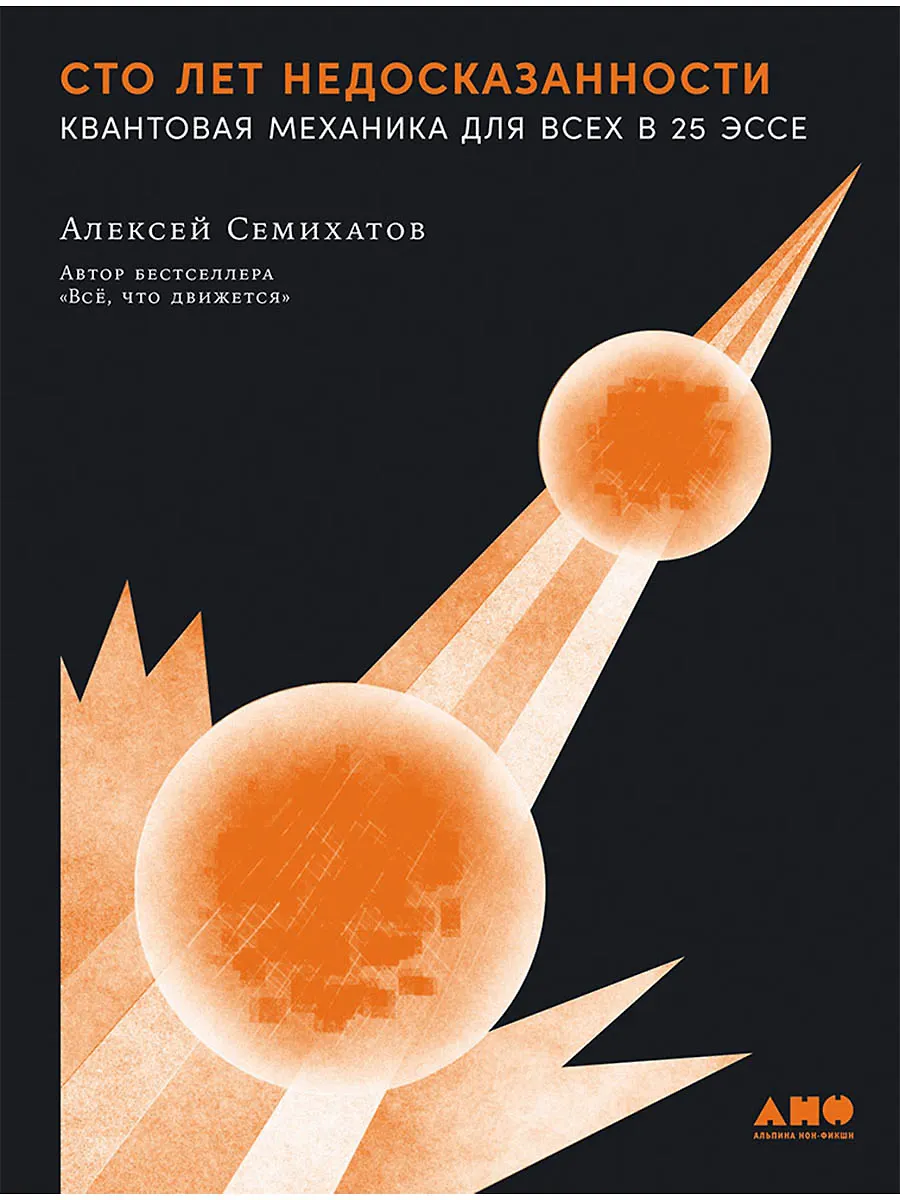
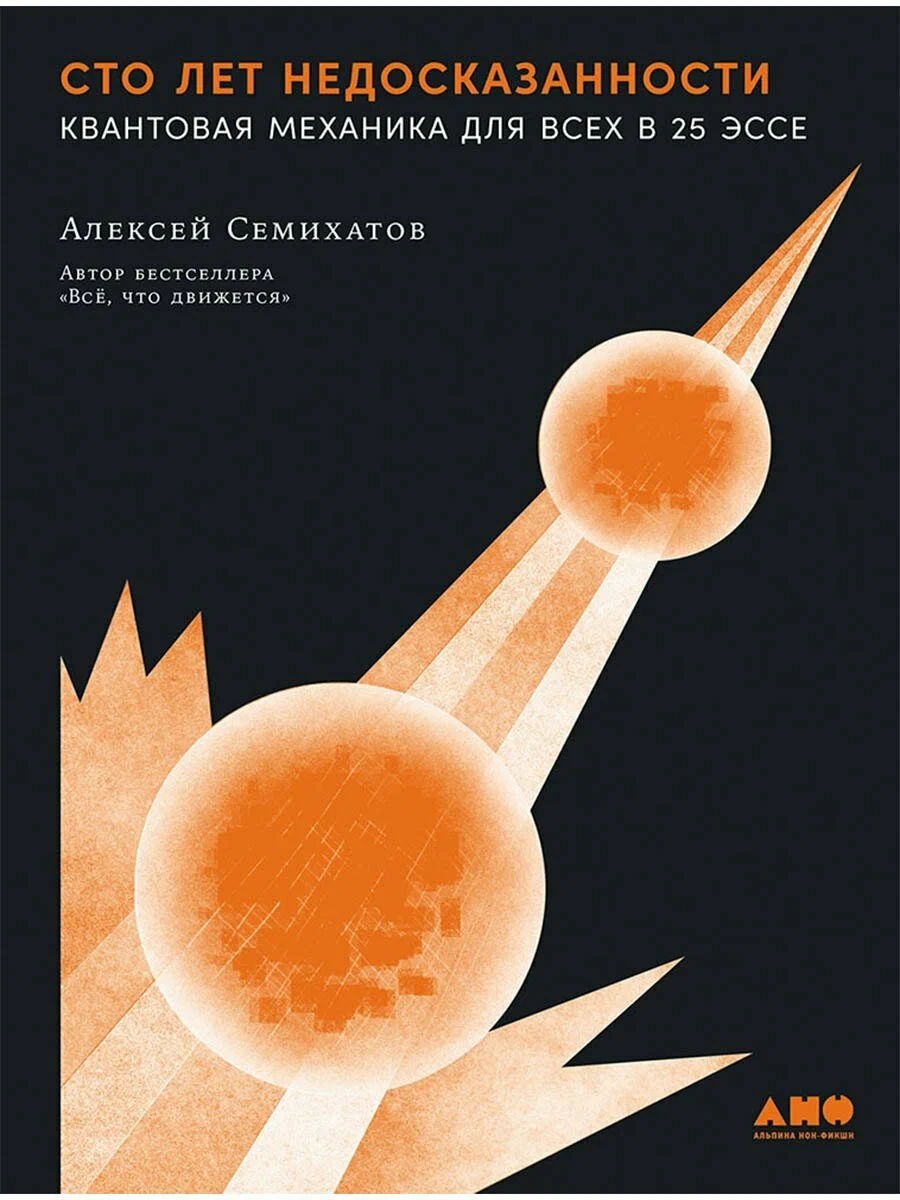
added book page + some reajustments

Changed region(s): [[0.9022, 0.925, 0.9333, 0.9558], [0.84, 0.925, 0.8711, 0.9558], [0.5911, 0.0617, 0.6222, 0.0925]]

diff --git a/css/book.css b/css/book.css
@@ -1,0 +1,156 @@
+ .book-container-content {
+    background-color: #fff;
+    width: 90%;
+    margin: 40px auto;
+    padding: 40px 0;
+ }
+ 
+ .book-page {
+    display: flex;
+    gap: 50px;
+    max-width: 80vw;
+    margin: 40px auto;
+    padding: 0 20px;
+}
+
+/* Covers */
+
+.book-page-cover {
+    flex: 0 0 400px;
+    position: relative; 
+    aspect-ratio: 2 / 3;
+}
+
+.book-page-cover img {
+    position: absolute;
+    width: 100%;
+    height: 100%;
+    object-fit: cover;
+}
+
+/* Book info */
+
+.book-page-info {
+    flex: 1;
+}
+
+.book-page-title {
+    font-family: 'Lato', sans-serif;
+    font-size: 32px;
+    font-weight: 600;
+    color: #000;
+    letter-spacing: 5%;
+    text-transform: uppercase;
+    margin-bottom: 20px;
+}
+
+.book-page-author {
+    font-family: 'Lato', sans-serif;
+    font-size: 24px;
+    color: #56463e;
+    font-weight: 600;
+    letter-spacing: 5%;
+    margin-bottom: 30px;
+}
+
+/* Rating */
+
+.book-page-rating {
+    display: flex;
+    align-items: center;
+    gap: 12px;
+    margin-bottom: 40px;
+    line-height: 1;
+}
+
+.stars-container .star {
+    font-size: 36px;
+    color: #bdb4a3;
+}
+
+.stars-container .star.filled,
+.stars-container .star.half {
+    color: #f5b342;
+}
+
+.rating-value {
+    font-family: 'Lato', sans-serif;
+    font-size: 24px;
+    color: #56463e;
+    font-weight: 600;
+    letter-spacing: 10%;
+}
+
+/* Genres */
+
+.book-page-genres {
+    display: flex;
+    flex-wrap: wrap;
+    gap: 20px;
+    margin-bottom: 210px;
+}
+
+.book-page-genre {
+    font-family: 'Lato', sans-serif;
+    background-color: #f2eeed;
+    color: #000;
+    padding: 4px 24px;
+    border-radius: 200px;
+    font-size: 20px;
+    letter-spacing: 5%;
+}
+
+/* In/Out of stock*/
+
+.book-page-stock-status {
+    font-size: 22px;
+    color: #000;
+    text-transform: uppercase;
+    margin-bottom: 40px;
+}
+
+/* Button */
+
+.book-page-button {
+    width: 50%;
+    margin-top: auto;
+    padding: 12px;
+    border: none;
+    font-size: 24px;
+    font-weight: 600;
+    cursor: pointer;
+    transition: all 0.3s ease;
+    font-family: 'Lato', sans-serif;
+    text-transform: uppercase;
+    letter-spacing: 8%;
+    margin-bottom: 15px;
+}
+
+.book-page-button.in-stock {
+    background-color: #56463e;
+    color: #fff;
+}
+
+.book-page-button.in-stock:hover {
+    background-color: #bdb4a3;
+}
+
+.book-page-button.out-of-stock {
+    background-color: #fff;
+    color: #56463e;
+    border: 2px solid #56463e;
+}
+
+.book-page-button.out-of-stock:hover {
+    border: 2px solid #bdb4a3;
+    color: #bdb4a3;
+}
+
+/* Lil note at the end */
+
+.book-page-note {
+    font-family: 'Lato', sans-serif;
+    font-size: 14px;
+    color: #999;
+    line-height: 1;
+}

diff --git a/css/catalogue.css b/css/catalogue.css
@@ -140,17 +140,37 @@
     row-gap: clamp(40px, 8vh, 100px);
 }
 
+
 .catalogue-grid .book-card {
     display: flex;
     flex-direction: column;
 }
+
+/* Covers */
 
 .catalogue-grid .book-cover {
     position: relative;
     width: 100%;
     height: 0;
     padding-bottom: 160%;
-    overflow: hidden;
+    cursor: pointer;
+}
+
+.catalogue-grid .book-cover::after {
+    content: '';
+    position: absolute;
+    top: -5px;
+    left: -5px;
+    width: calc(100% + 7px);
+    height: calc(100% + 7px);
+    border: 2px solid transparent;
+    transition: 0.3s ease;
+    pointer-events: none;
+    z-index: 2;
+}
+
+.catalogue-grid .book-cover:hover::after {
+    border-color: #56463e;
 }
 
 .catalogue-grid .book-cover img {
@@ -212,6 +232,12 @@
     -webkit-box-orient: vertical;
     overflow: hidden;
     font-weight: 500;
+    cursor: pointer;
+}
+
+.catalogue-grid .book-title:hover {
+    text-decoration: underline;
+    transition: 0.3s;
 }
 
 .catalogue-grid .book-author {
@@ -250,13 +276,13 @@
     background-color: #bdb4a3;
 }
 
-.catalogue-grid .book-button.favorite {
+.catalogue-grid .book-button.out-of-stock {
     background-color: #fff;
     color: #56463e;
     border: 2px solid #56463e;
 }
 
-.catalogue-grid .book-button.favorite:hover {
+.catalogue-grid .book-button.out-of-stock:hover {
     border: 2px solid #bdb4a3;
     color: #bdb4a3;
 }

diff --git a/js/catalogue.js b/js/catalogue.js
@@ -72,8 +72,18 @@ function renderBooks() {
         return;
     }
     booksToShow.forEach(book => {
-        const card = createBookCard(book, catalogueTemplate);
-        catalogueContainer.appendChild(card);
+        const fragment = createBookCard(book, catalogueTemplate);
+        // Получаем корневой элемент из фрагмента
+        const card = fragment.firstElementChild;
+        if (card) {
+            card.addEventListener('click', (e) => {
+                // Клик на кнопку не должен вызывать переход
+                if (e.target.closest('.book-button'))
+                    return;
+                window.location.href = `book.html?id=${book.id}`;
+            });
+            catalogueContainer.appendChild(card);
+        }
     });
     if (loadMoreWrapper) {
         if (currentDisplayCount >= filteredBooks.length) {

diff --git a/book.html b/book.html
@@ -6,7 +6,7 @@
     <link href="css/common.css" rel="stylesheet">
     <link href="css/book.css" rel="stylesheet">
     <script src="js/common.js" defer></script>
-    <script src="js/" defer></script> <!-- TODO -->
+    <script src="js/book.js" defer></script>
     <link rel="preconnect" href="https://fonts.googleapis.com">
     <link rel="preconnect" href="https://fonts.gstatic.com" crossorigin>
     <link href="https://fonts.googleapis.com/css2?family=Lato:wght@700&display=swap" rel="stylesheet">
@@ -37,9 +37,14 @@
                 </div>
             </form>
         </div>
+    </div>
 
+    <div class="book-container-content">
+        <div id="book-container"></div>
+    </div>
 
-    
+    <div class="nav-container">
+        <footer>2026. Все права защищены</footer>
     </div>
 
     <template id="book-template">
@@ -50,12 +55,11 @@
             <div class="book-page-info">
                 <h1 class="book-page-title"></h1>
                 <p class="book-page-author"></p>
-                <div class="book-page-genres">
-                </div>
                 <div class="book-page-rating">
                     <div class="stars-container"></div>
                     <span class="rating-value"></span>
                 </div>
+                <div class="book-page-genres"></div>
                 <div class="book-page-stock-status"></div>
                 <button class="book-page-button"></button>
                 <div class="book-page-note">! Бронирование книги активно в течение трех дней. 

diff --git a/css/index.css b/css/index.css
@@ -289,13 +289,13 @@ li::scroll-marker:target-current {
     background-color: #bdb4a3;
 }
 
-.book-button.favorite {
+.book-button.out-of-stock {
     background-color: #fff;
     color: #56463e;
     border: 2px solid #56463e;
 }
 
-.book-button.favorite:hover {
+.book-button.out-of-stock:hover {
     border: 2px solid #bdb4a3;
     color: #bdb4a3;
 }

diff --git a/js/common.js b/js/common.js
@@ -29,7 +29,7 @@ function createBookCard(book, template) {
     title.textContent = book.title;
     const isAvailable = book.inStock > 0;
     button.textContent = isAvailable ? 'Забронировать' : 'В избранное';
-    button.classList.add(isAvailable ? 'in-stock' : 'favorite');
+    button.classList.add(isAvailable ? 'in-stock' : 'out-of-stock');
     return clone;
 }
 // Получение всех уникальных жанров из книг